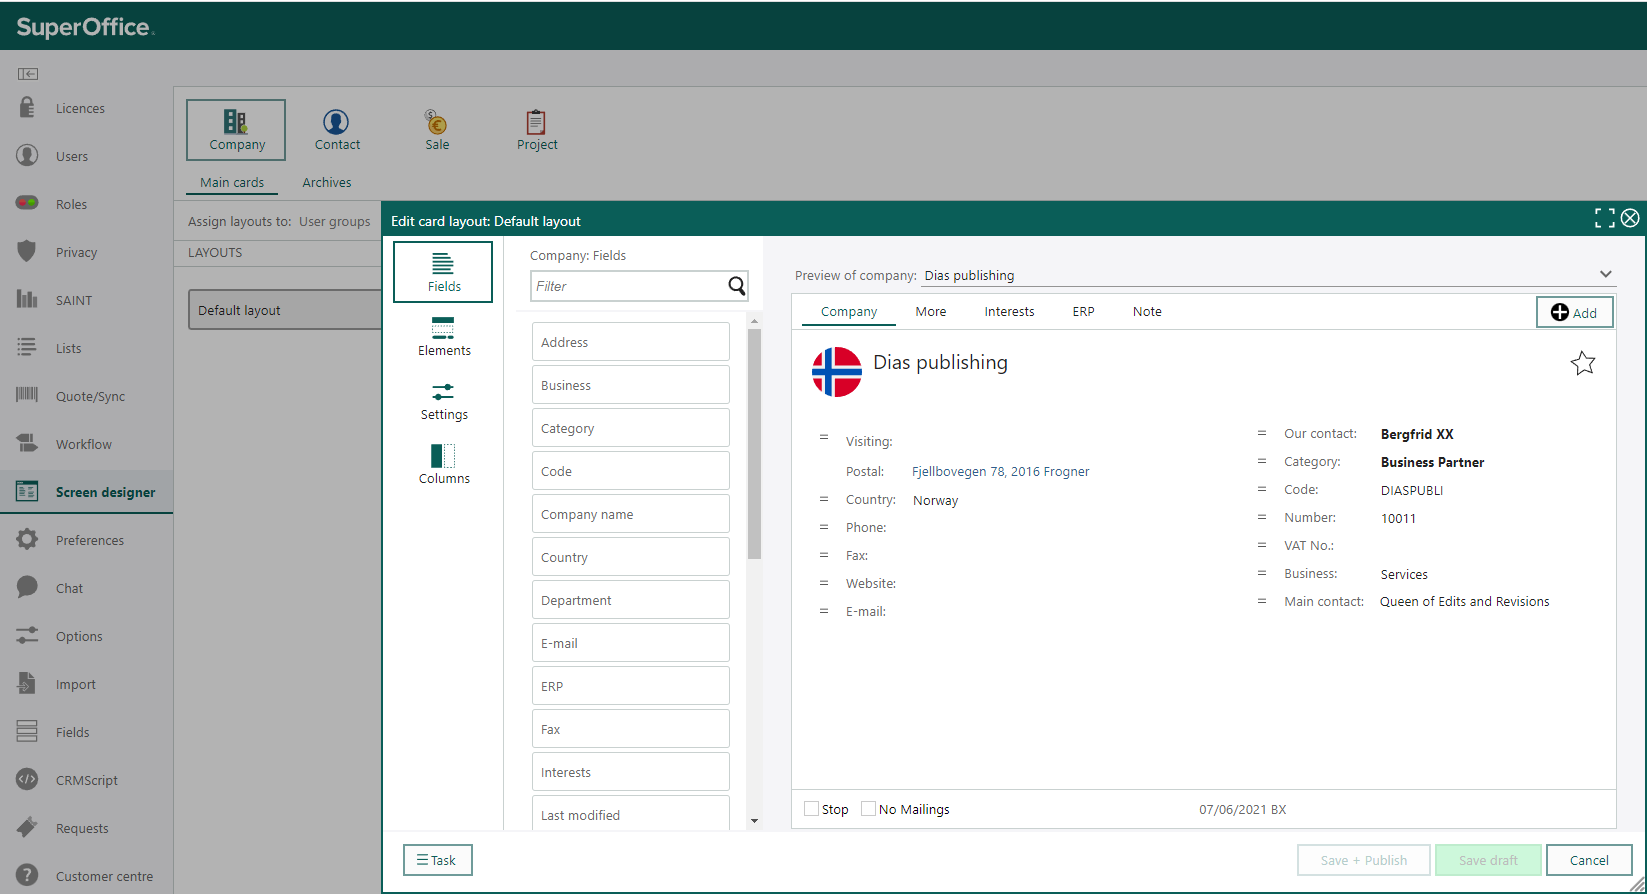
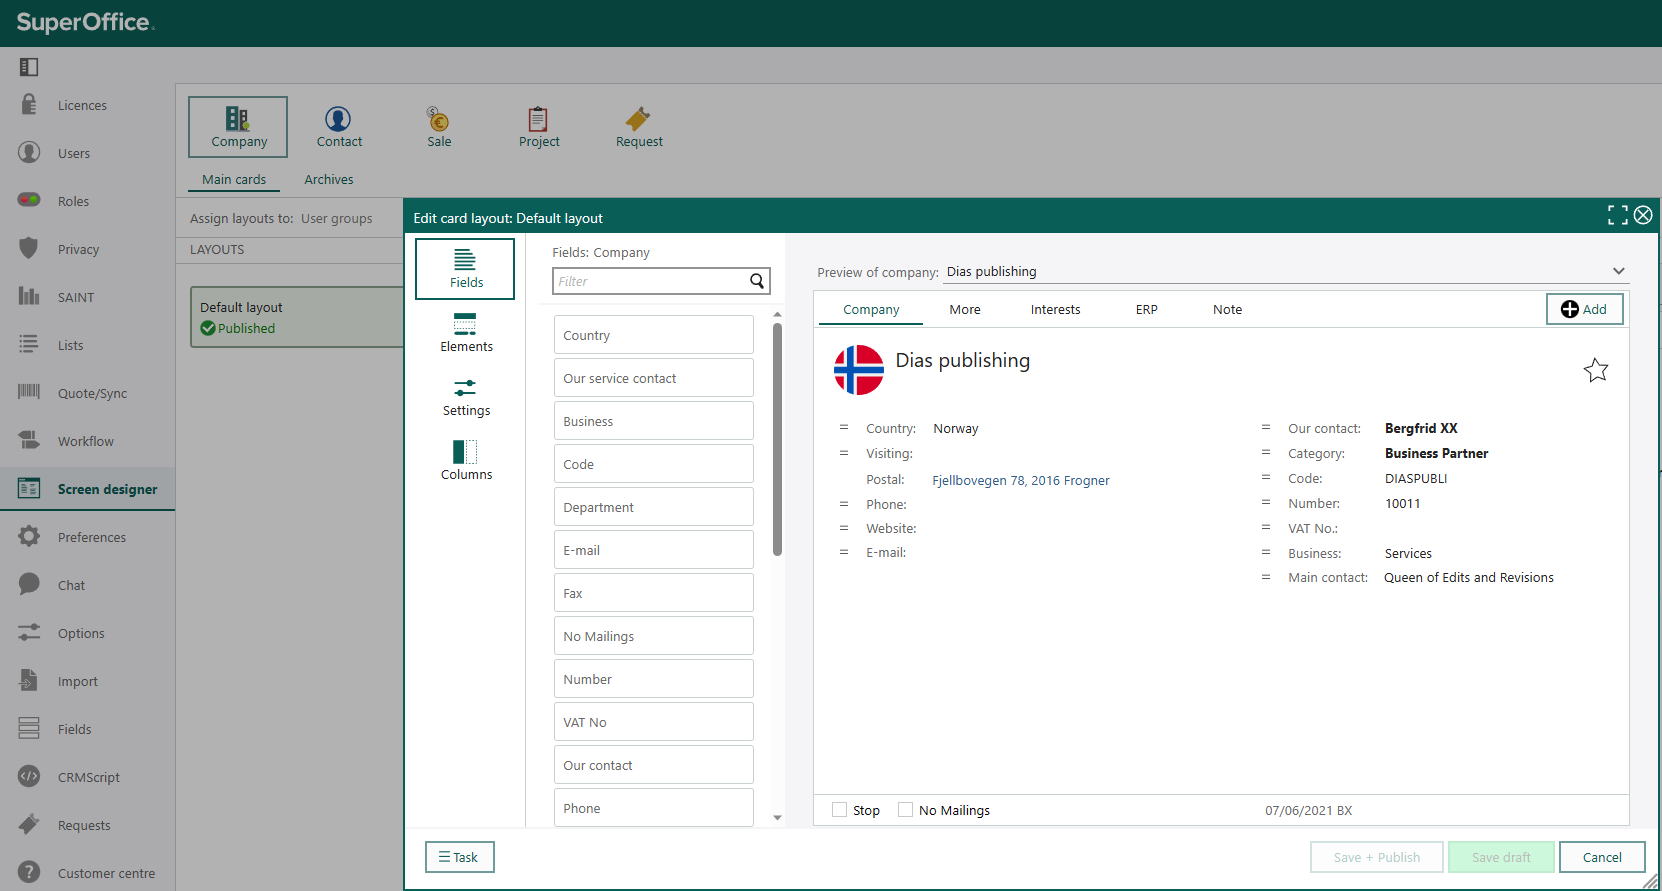
#583 add Request as option

diff --git a/docs/en/ui/screen-designer/learn/index.md b/docs/en/ui/screen-designer/learn/index.md
@@ -1,7 +1,7 @@
 ---
 uid: help-en-screen-designer
 title: Screen designer
-description: Learn how to configure your Company, Contact, and Project cards in this how-to guide.
+description: Learn how to configure your Company, Contact, and Request cards in this how-to guide.
 author: SuperOffice RnD
 so.date: 02.23.2023
 keywords: screen designer
@@ -18,11 +18,11 @@ The Screen designer feature allows you to configure your main screens in S
 > [!NOTE]
 > Screen designer (configurable screens) requires the Developer Tools licence.
 
-The Contact and Company cards/screens in SuperOffice CRM come with a default layout, but you can edit them or create your own layouts. because different user groups often use the Contact and Company cards differently, it could be a good idea to create different layouts for each user group.
+The Contact and Company cards/screens in SuperOffice CRM come with a default layout, but you can edit them or create your own layouts. Because different user groups often use the Contact and Company cards differently, it could be a good idea to create different layouts for each user group.
 
 Screen designer allows you to remove the unnecessary fields and/or create new, more relevant fields. You can also group the fields in tabs or columns and add your own headings (called "labels"). If you find some of the tabs unnecessary, you can easily remove them or replace them with the tabs that are more suitable for your organization.
 
-Your sales team, support team and management team do not necessarily have the same focus and requirements concerning the data they need to access most frequently in SuperOffice. The solution is to create custom screens for each team. Your organization will save time by allowing your teams to find relevant information more quickly. Configure the layout of your main screens and archives (section tabs), and define which types of information each team (user group) can access and see on the company, contact, sale and project screens.
+Your sales team, support team and management team do not necessarily have the same focus and requirements concerning the data they need to access most frequently in SuperOffice. The solution is to create custom screens for each team. Your organization will save time by allowing your teams to find relevant information more quickly. Configure the layout of your main screens and archives (section tabs), and define which types of information each team (user group) can access and see on the Company, Contact, Sale, Project, and Request screens.
 
 * Move the most important fields to the first tab.
 * Use columns, labels/titles and dividers to organize information into logical groups.
@@ -32,9 +32,9 @@ Your sales team, support team and management team do not necessarily have the sa
 * Add links/buttons for looking up information in other websites or to manually trigger an automated process based on CRM Script.
 
 > [!NOTE]
-> When this feature is activated, the fields in your current **More** tab for the Company, Contact, Sale, and Project screens will change to form two columns. You can edit these tabs in the screen designer (see [Edit layout][1]).
+> When this feature is activated, the fields in your current **More** tab for the Company, Contact, Sale, Project, and Request screens will change to form two columns. You can edit these tabs in the screen designer (see [Edit layout][1]).
 
-You can create custom screen layouts for the company, contact, sale and project cards, as seen at the top of the screen. The **Layouts** list displays any existing screen layouts (usually the default layout), with a preview screen on the right.
+You can create custom screen layouts for the Company, Contact, Sale, Project, and Request cards, as seen at the top of the screen. The **Layouts** list displays any existing screen layouts (usually the default layout), with a preview screen on the right.
 
 The layouts are marked with status (published or draft) and the assigned user groups.
 

diff --git a/docs/en/ui/screen-designer/learn/add-new-layout.md b/docs/en/ui/screen-designer/learn/add-new-layout.md
@@ -15,7 +15,7 @@ language: en
 
 If the default layout does not reflect the needs of a user group, you can create a new layout to match the user group's unique information needs. A customized layout for the contact and company cards and the different archive/section tabs lets your teams and organization work more efficient.
 
-With custom screen layouts for each of your teams, finding customer data will be easier than ever. The most relevant data will always be available and visible. Remove, move or hide irrelevant or less important data to unclutter the company, contact, sale and project screens. Add customized archives with the most relevant data for your teams. The result will be a cleaner and more tidy screen for your teams to work in.
+With custom screen layouts for each of your teams, finding customer data will be easier than ever. The most relevant data will always be available and visible. Remove, move or hide irrelevant or less important data to unclutter the company, contact, sale, project, and request screens. Add customized archives with the most relevant data for your teams. The result will be a cleaner and more tidy screen for your teams to work in.
 
 ## Main card layout
 

diff --git a/docs/en/ui/screen-designer/configurable-screens/assign-layout.md b/docs/en/ui/screen-designer/configurable-screens/assign-layout.md
@@ -3,7 +3,7 @@ uid: screen-assign-layout
 title:  Assign a layout
 description: How to assign a layout to a group, sale type, or project type using the Screen Designer in Settings and maintenance.
 author: Bergfrid Dias
-so.date: 10.10.2022
+so.date: 05.05.2023
 keywords: ui, screen, customization
 so.topic: howto
 so.version: 10
@@ -21,11 +21,11 @@ so.client:
 If you delete a layout, user groups assigned to it, will go back to the default layout.
 
 1. Open the Screen Designer.
-2. At the top, select a screen: Company, Contact, Sale, or Project.
+2. At the top, select a screen: Company, Contact, Sale, Project, or Request.
 3. Select a layout in the list on the left side.
 4. Click the **Used by** field. Your options depend on the selected screen.
 
-    * Company and contact: Select one or more user groups.
+    * Company, contact, and request: Select one or more user groups.
     * Sale: First select assignment method (user group or sale type), then select the specific groups or types.
     * Project: First select assignment method (user group or project type), then select the specific groups or types.
 

diff --git a/docs/en/ui/screen-designer/learn/edit-layout-archives.md b/docs/en/ui/screen-designer/learn/edit-layout-archives.md
@@ -13,7 +13,7 @@ language: en
 
 # Edit layout on section tabs/archives
 
-You can edit the layout by adding or removing section tabs/archives on the different main cards for Company, Contact, Sale and Project.
+You can edit the layout by adding or removing section tabs/archives on the different main cards for company, contact, sale, and project, and request.
 
 ## Disambiguation
 
@@ -23,7 +23,7 @@ When you have created a new layout for archives (section tabs) as described in A
 
 ## Steps
 
-You can add a new section tab on any main cards you like. Depending on the main card chosen, you can add a new tab with contents of: Document, Appointment, Product, Project, Project member, Sale, Sale stakeholder, Request, Contact and Relation.
+You can add a new section tab on any main cards you like. Depending on the main card chosen, you can add a new tab with contents of: Document, Appointment, Product, Project, Project member, Sale, Sale stakeholder, Request, Contact, and Relation.
 
 ![Select the type of content you want to show in the section tab -screenshot][img5]
 

diff --git a/docs/en/ui/screen-designer/configurable-screens/edit-card-layout.md b/docs/en/ui/screen-designer/configurable-screens/edit-card-layout.md
@@ -3,7 +3,7 @@ uid: screen-edit-card
 title: Edit the layout of a card
 description: How to edit the layout of a main card using the Screen Designer in Settings and maintenance.
 author: Bergfrid Dias
-so.date: 10.11.2022
+so.date: 05.05.2023
 keywords: ui, screen, customization
 so.topic: howto
 so.version: 10
@@ -28,7 +28,7 @@ Before customizing a layout, determine who the intended users are.
 ## Edit card layout
 
 1. Open the Screen Designer.
-2. Select a card at the top: Company, Contact, Sale, or Project.
+2. Select a card at the top: Company, Contact, Sale, Project, or Request.
 3. Select a layout in the list on the left side.
 4. Click **Edit layout** below the preview.
 5. In the **Edit card layout** window, work your way through the tabs of the screen.

diff --git a/docs/en/ui/screen-designer/configurable-screens/add-layout.md b/docs/en/ui/screen-designer/configurable-screens/add-layout.md
@@ -3,7 +3,7 @@ uid: screen-add-layout
 title:  Add a layout
 description: How to add a layout using the Screen Designer in Settings and maintenance.
 author: Bergfrid Dias
-so.date: 10.10.2022
+so.date: 05.05.2023
 keywords: ui, screen, customization
 so.topic: howto
 so.version: 10
@@ -23,7 +23,7 @@ To create a new screen layout:
 
 1. Open the Screen Designer.
 
-2. At the top, select a screen: Company, Contact, Sale, or Project.
+2. At the top, select a screen: Company, Contact, Sale, Project, or Request.
 
 3. Under **Layouts**, click **Add**.
 

diff --git a/docs/en/ui/screen-designer/configurable-screens/index.md b/docs/en/ui/screen-designer/configurable-screens/index.md
@@ -3,7 +3,7 @@ uid: configurable-screens
 title: Configurable screens
 description: Configurable screens
 author: Bergfrid Dias
-so.date: 10.04.2022
+so.date: 05.05.2023
 keywords: ui, screen, customization
 so.topic: concept
 so.version: 10
@@ -23,6 +23,7 @@ Configurable screens enable CRM Administrators to customize SuperOffice CRM user
 * Contact
 * Sale
 * Project
+* Request
 
 ## What can I customize?
 

diff --git a/docs/en/ui/screen-designer/learn/includes/goto-screen-designer.md b/docs/en/ui/screen-designer/learn/includes/goto-screen-designer.md
@@ -1,7 +1,7 @@
 <!-- markdownlint-disable-file MD041 -->
 1. Select ![icon][img1] **Screen designer** in the Navigator.
 
-2. Click **Company**, **Contact**, **Sale**, or **Project** at the top.
+2. Click **Company**, **Contact**, **Sale**, **Project**, or **Request** at the top.
 
 <!-- Referenced images -->
 [img1]: ../../../../../../common/icons/nav-admin-confscreen-active.png

diff --git a/docs/en/ui/screen-designer/index.md b/docs/en/ui/screen-designer/index.md
@@ -3,7 +3,7 @@ uid: screen-designer
 title: Screen designer
 description: Introduction to the Screen Designer in Settings and maintenance.
 author: Bergfrid Dias
-so.date: 10.10.2022
+so.date: 05.05.2023
 keywords: ui, screen, customization
 so.topic: concept
 so.version: 10
